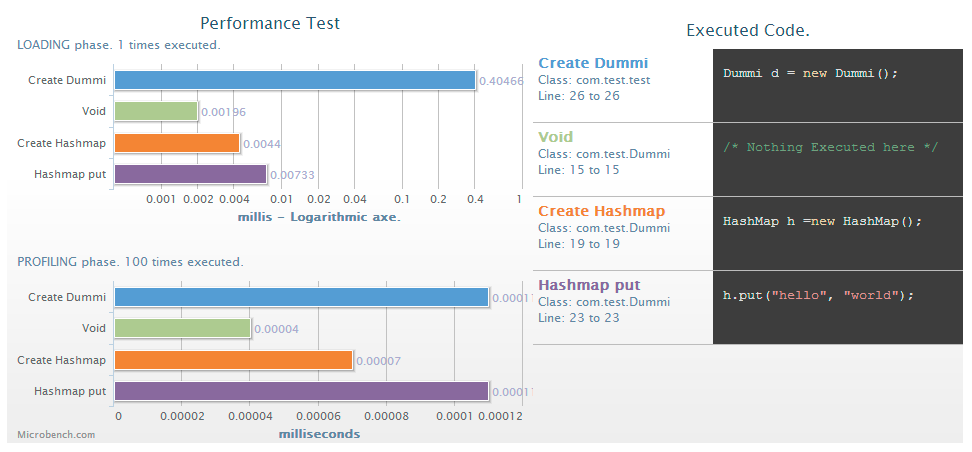
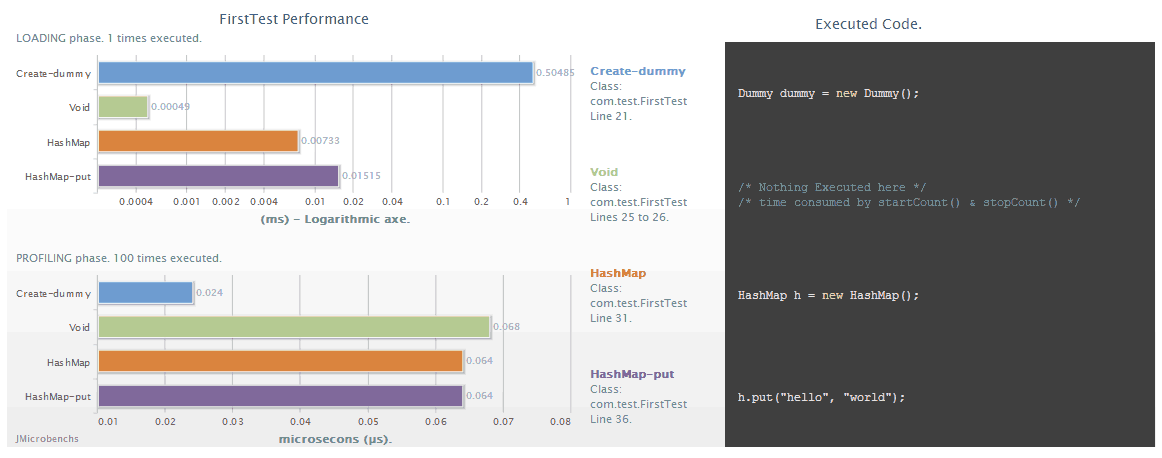
update readme & media

diff --git a/JMicrobenchs/test/com/test/FirstTest.java b/JMicrobenchs/test/com/test/FirstTest.java
@@ -12,9 +12,14 @@ import mjerez.jmicrobench.reports.ReportOptions;
 public class FirstTest implements JMicrobench {	
 
 	public void runBench() {
-		String t1 = "void", t2 = "HashMap", t3 = "HashMap-put";
+		String t1 = "Void", t2 = "HashMap", t3 = "HashMap-put", t4 = "Create-dummy";
 		
-		TimeProfiler tp = Registry.getTimeProfiler("FirstTest Performance");		
+		TimeProfiler tp = Registry.getTimeProfiler("FirstTest Performance");	
+		
+		
+		tp.startCount(t4);
+		Dummy dummy = new Dummy();
+		tp.stopCount(t4);
 		
 		tp.startCount(t1);
 		/* Nothing Executed here */
@@ -31,20 +36,6 @@ public class FirstTest implements JMicrobench {
 		h.put("hello", "world");
 		tp.stopCount(t3);	
 		
-		/*tp.startCount(t1+1);
-		 Nothing Executed here 
-		 time consumed by startCount() & stopCount() 
-		tp.stopCount(t1+1);
-
-		 Measures the time required to create a HashMap. 
-		tp.startCount(t2+1);
-		HashMap<String, String> h1 = new HashMap<String, String>();
-		tp.stopCount(t2+1);
-
-		 Measures the time required for the put operation 
-		tp.startCount(t3+1);
-		h1.put("hello", "world");
-		tp.stopCount(t3+1);	*/
 		
 	}
 	
@@ -58,7 +49,7 @@ public class FirstTest implements JMicrobench {
 
 		/* create & run the benchmark */
 		new BenchmarkRunner(warmupLoops, profileLoops,firstTest).run();
-		boolean drawLoad = false, drawProfiling=true, drawCode= true ,  bars=true, smallSize= true;
+		boolean drawLoad = true, drawProfiling=true, drawCode= true ,  bars=true, smallSize= true;
 		String path= "../test/";
 		/* generate the report & write to file */	
 		ReportOptions options = new  ReportOptions(drawLoad, drawProfiling, drawCode, bars, smallSize, path);

diff --git a/JMicrobenchs/test/com/test/Dummy.java b/JMicrobenchs/test/com/test/Dummy.java
@@ -1,0 +1,12 @@
+package com.test;
+
+
+
+public class Dummy {
+	
+	
+	public int add50(int x){
+			return x+50;
+	}
+
+}

diff --git a/README.md b/README.md
@@ -1,4 +1,4 @@
-# ![LOgo](https://raw.github.com/M-jerez/JMicrobenchs/master/media/logox32.png) [ JMicrobenchs web page](http://m-jerez.github.com/JMicrobenchs/)
+# ![LOgo](https://raw.github.com/M-jerez/JMicrobenchs/master/media/logox32.png) [ JMicrobenchs's web page](http://m-jerez.github.com/JMicrobenchs/)
 
 ##Java micro-benchmarks  made easy.
 
@@ -81,10 +81,15 @@ Create a new instance of your test class, in this case `FirstTest`; create a new
 	}		
 ```
 
-The `RenderOptions` object is required to configure the generated report, in this case we only have set the relative path were are the java source files. if the source files ".java" and the executables ".class" are in the same directories this path is a void string -> "". To see more options go to [javadoc.](http://m-jerez.github.com/JMicrobenchs/doc/mjerez/jmicrobench/reports/ReportOptions.html)
+The `RenderOptions` object is required to configure the generated report, in this case we only have set the relative path were are the java source files. if the source files ".java" and the executables ".class" are in the same directory just point to the same path ("."). To see more options go to [javadoc.](http://m-jerez.github.com/JMicrobenchs/javadoc.html)
 
 ### The Results.   
 The next graph is an example of the html generated from the previous code. One report like this will be generated for each `TimeProfiler` object created during the benchmark execution.
 
 Snapshot of the html generated by the previous code.
 ![report sample](https://raw.github.com/M-jerez/JMicrobenchs/master/media/report-FirstTest.png)
+
+
+### Where to find more info.
+* [JMicrobench web page.](http://m-jerez.github.com/JMicrobenchs/index.html)
+* [Javadoc.](http://m-jerez.github.com/JMicrobenchs/javadoc.html)
